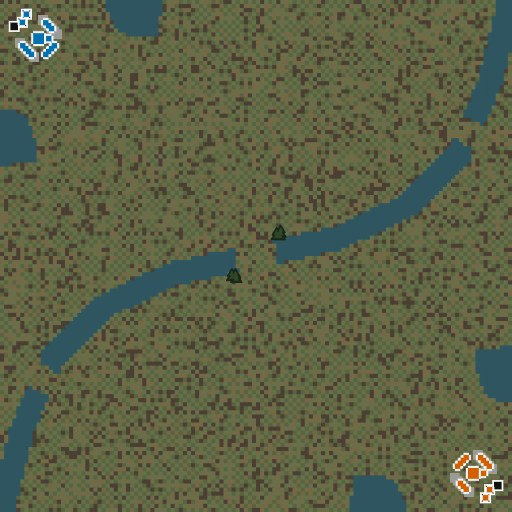
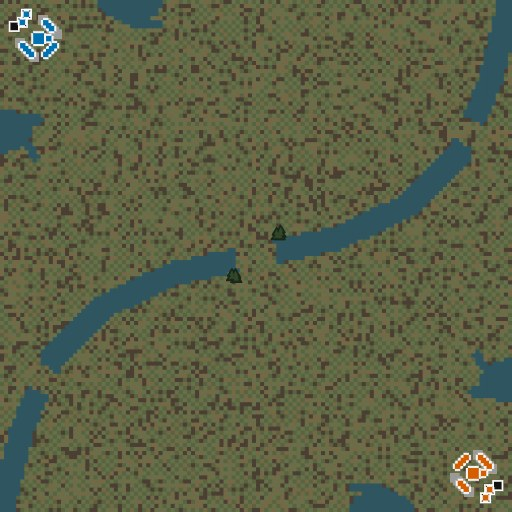
Differentiate The River edge pools
Reshape one rotational pair as broad shallow crescents and the other as deeper forked inlets while preserving connected terrain and protected starts.

diff --git a/server/crates/sim/src/game/map/tests/the_river.rs b/server/crates/sim/src/game/map/tests/the_river.rs
@@ -17,7 +17,7 @@ fn the_river_is_selectable_and_loads_for_a_two_player_match() {
     assert_eq!(map.terrain.len(), 126 * 126);
     assert_eq!(
         map.terrain.iter().filter(|&&tile| tile == terrain::WATER).count(),
-        1_446
+        1_374
     );
     map.starts.sort_unstable();
     assert_eq!(map.starts, [(9, 9), (116, 116)]);
